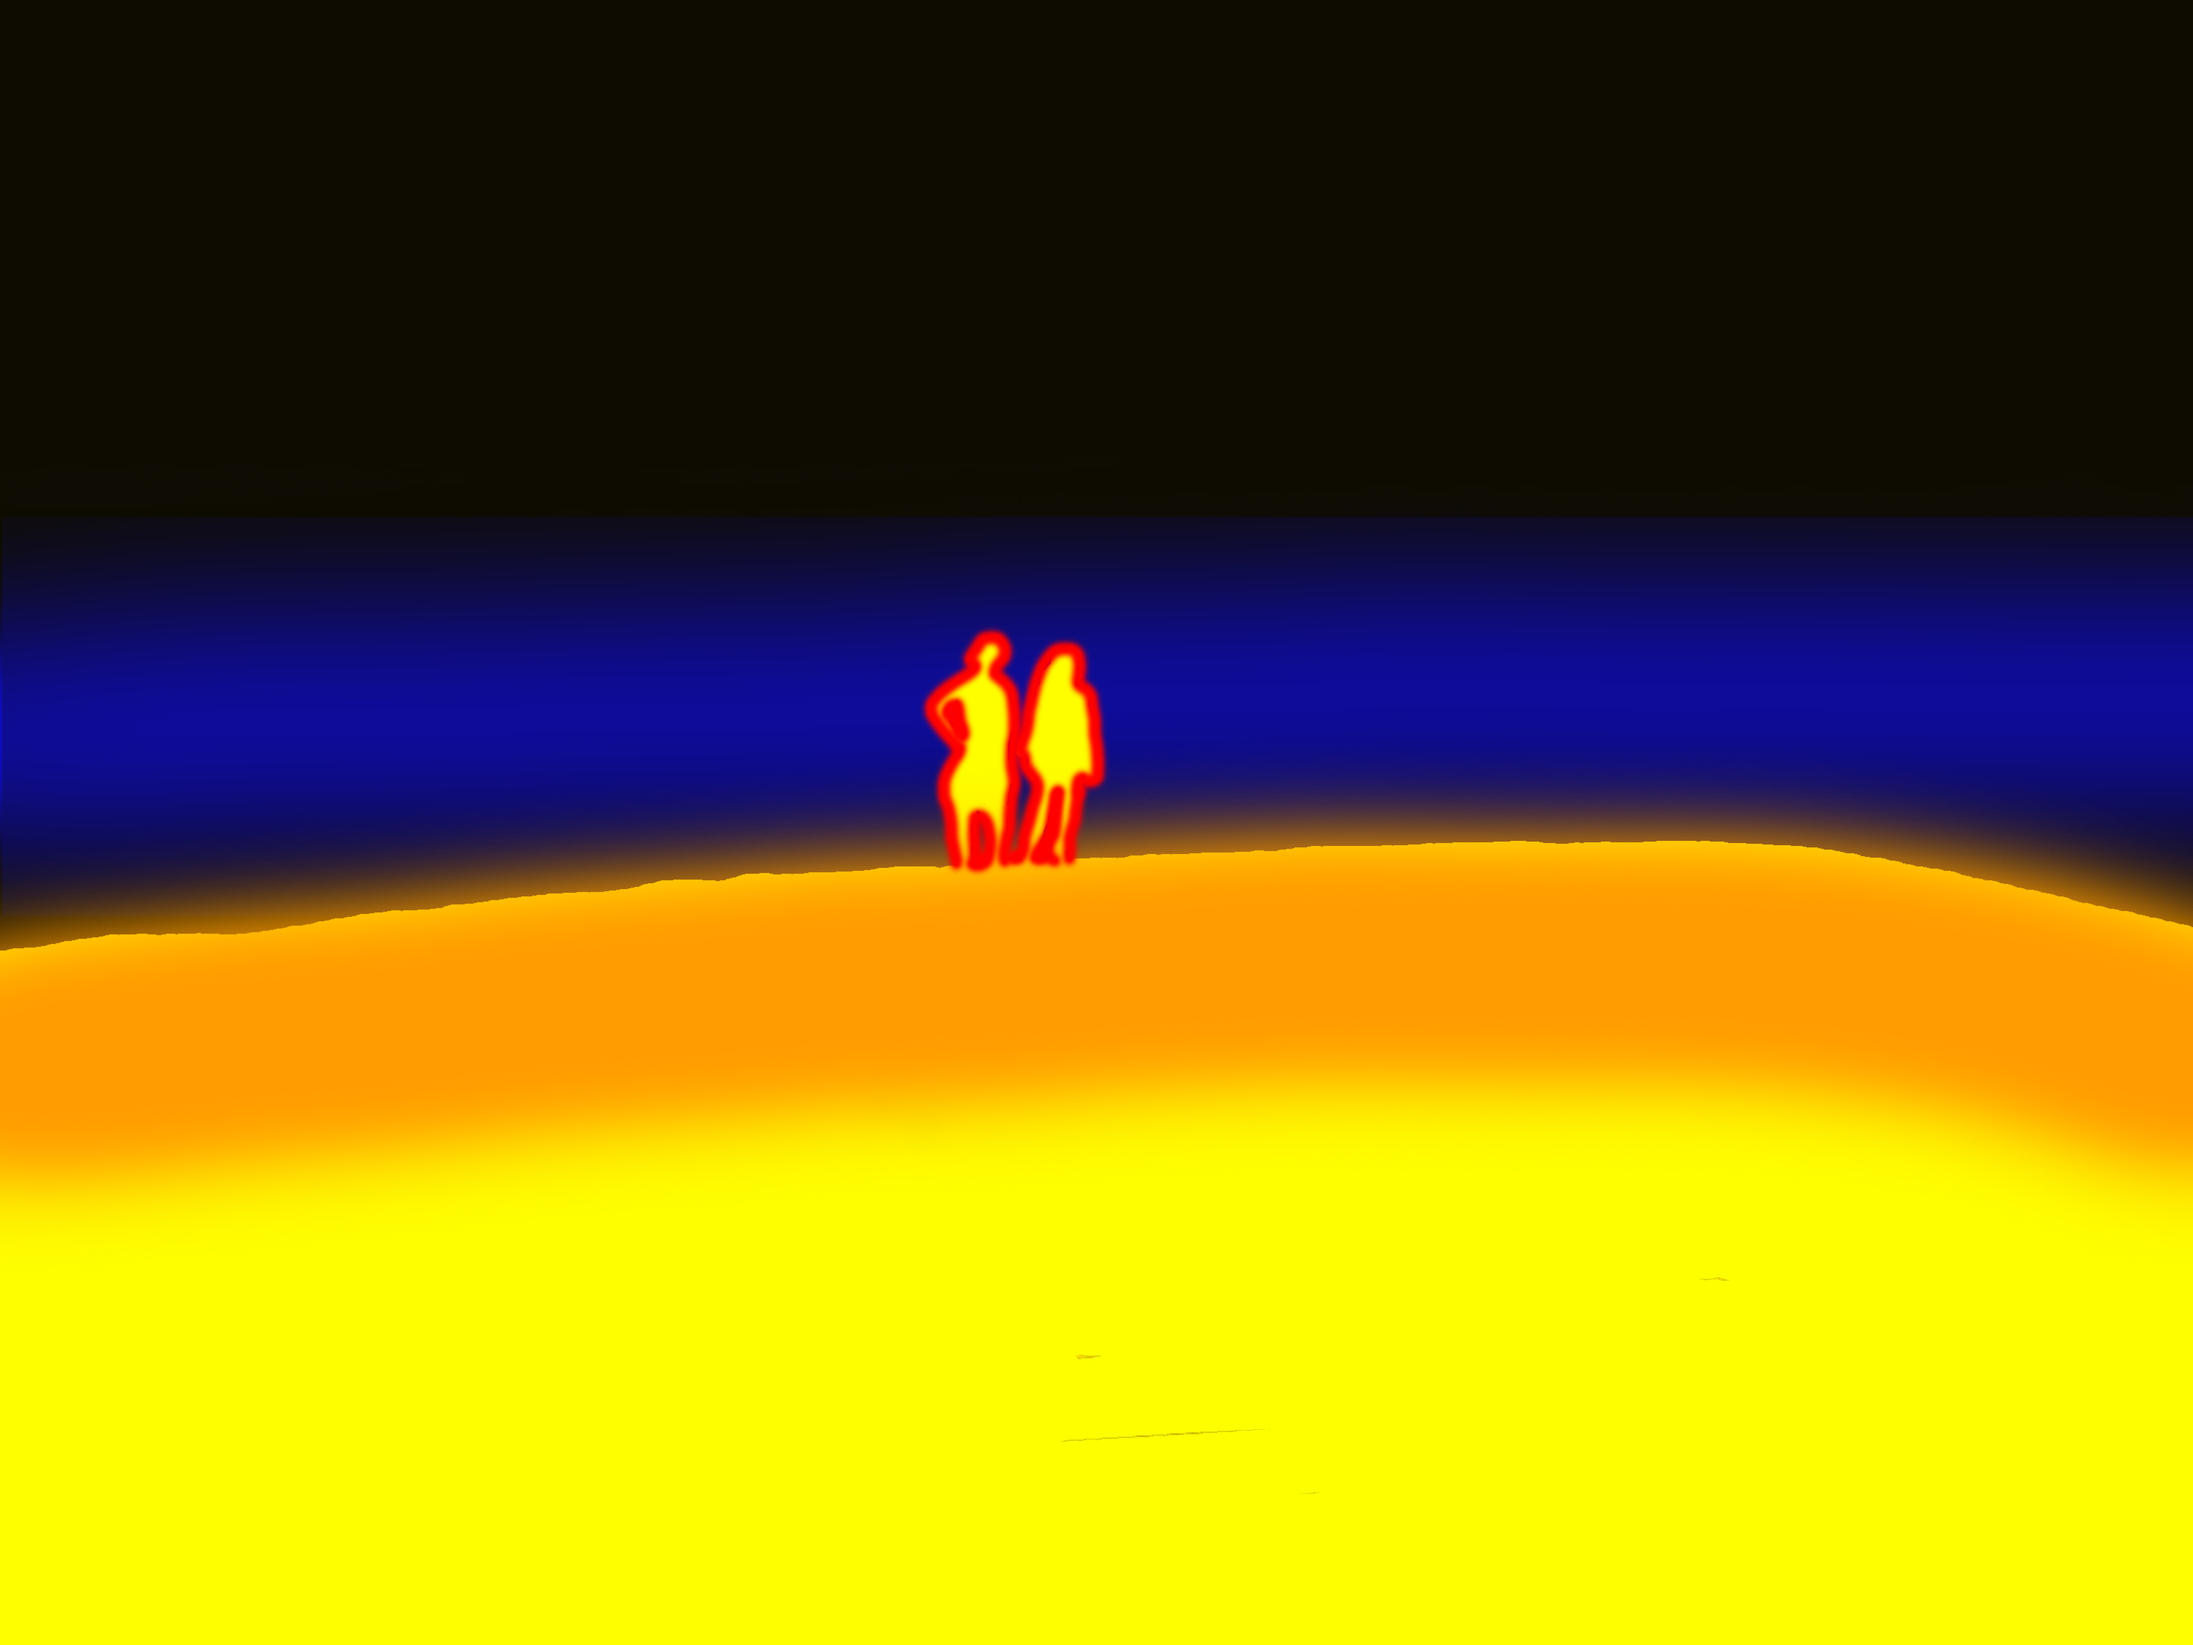
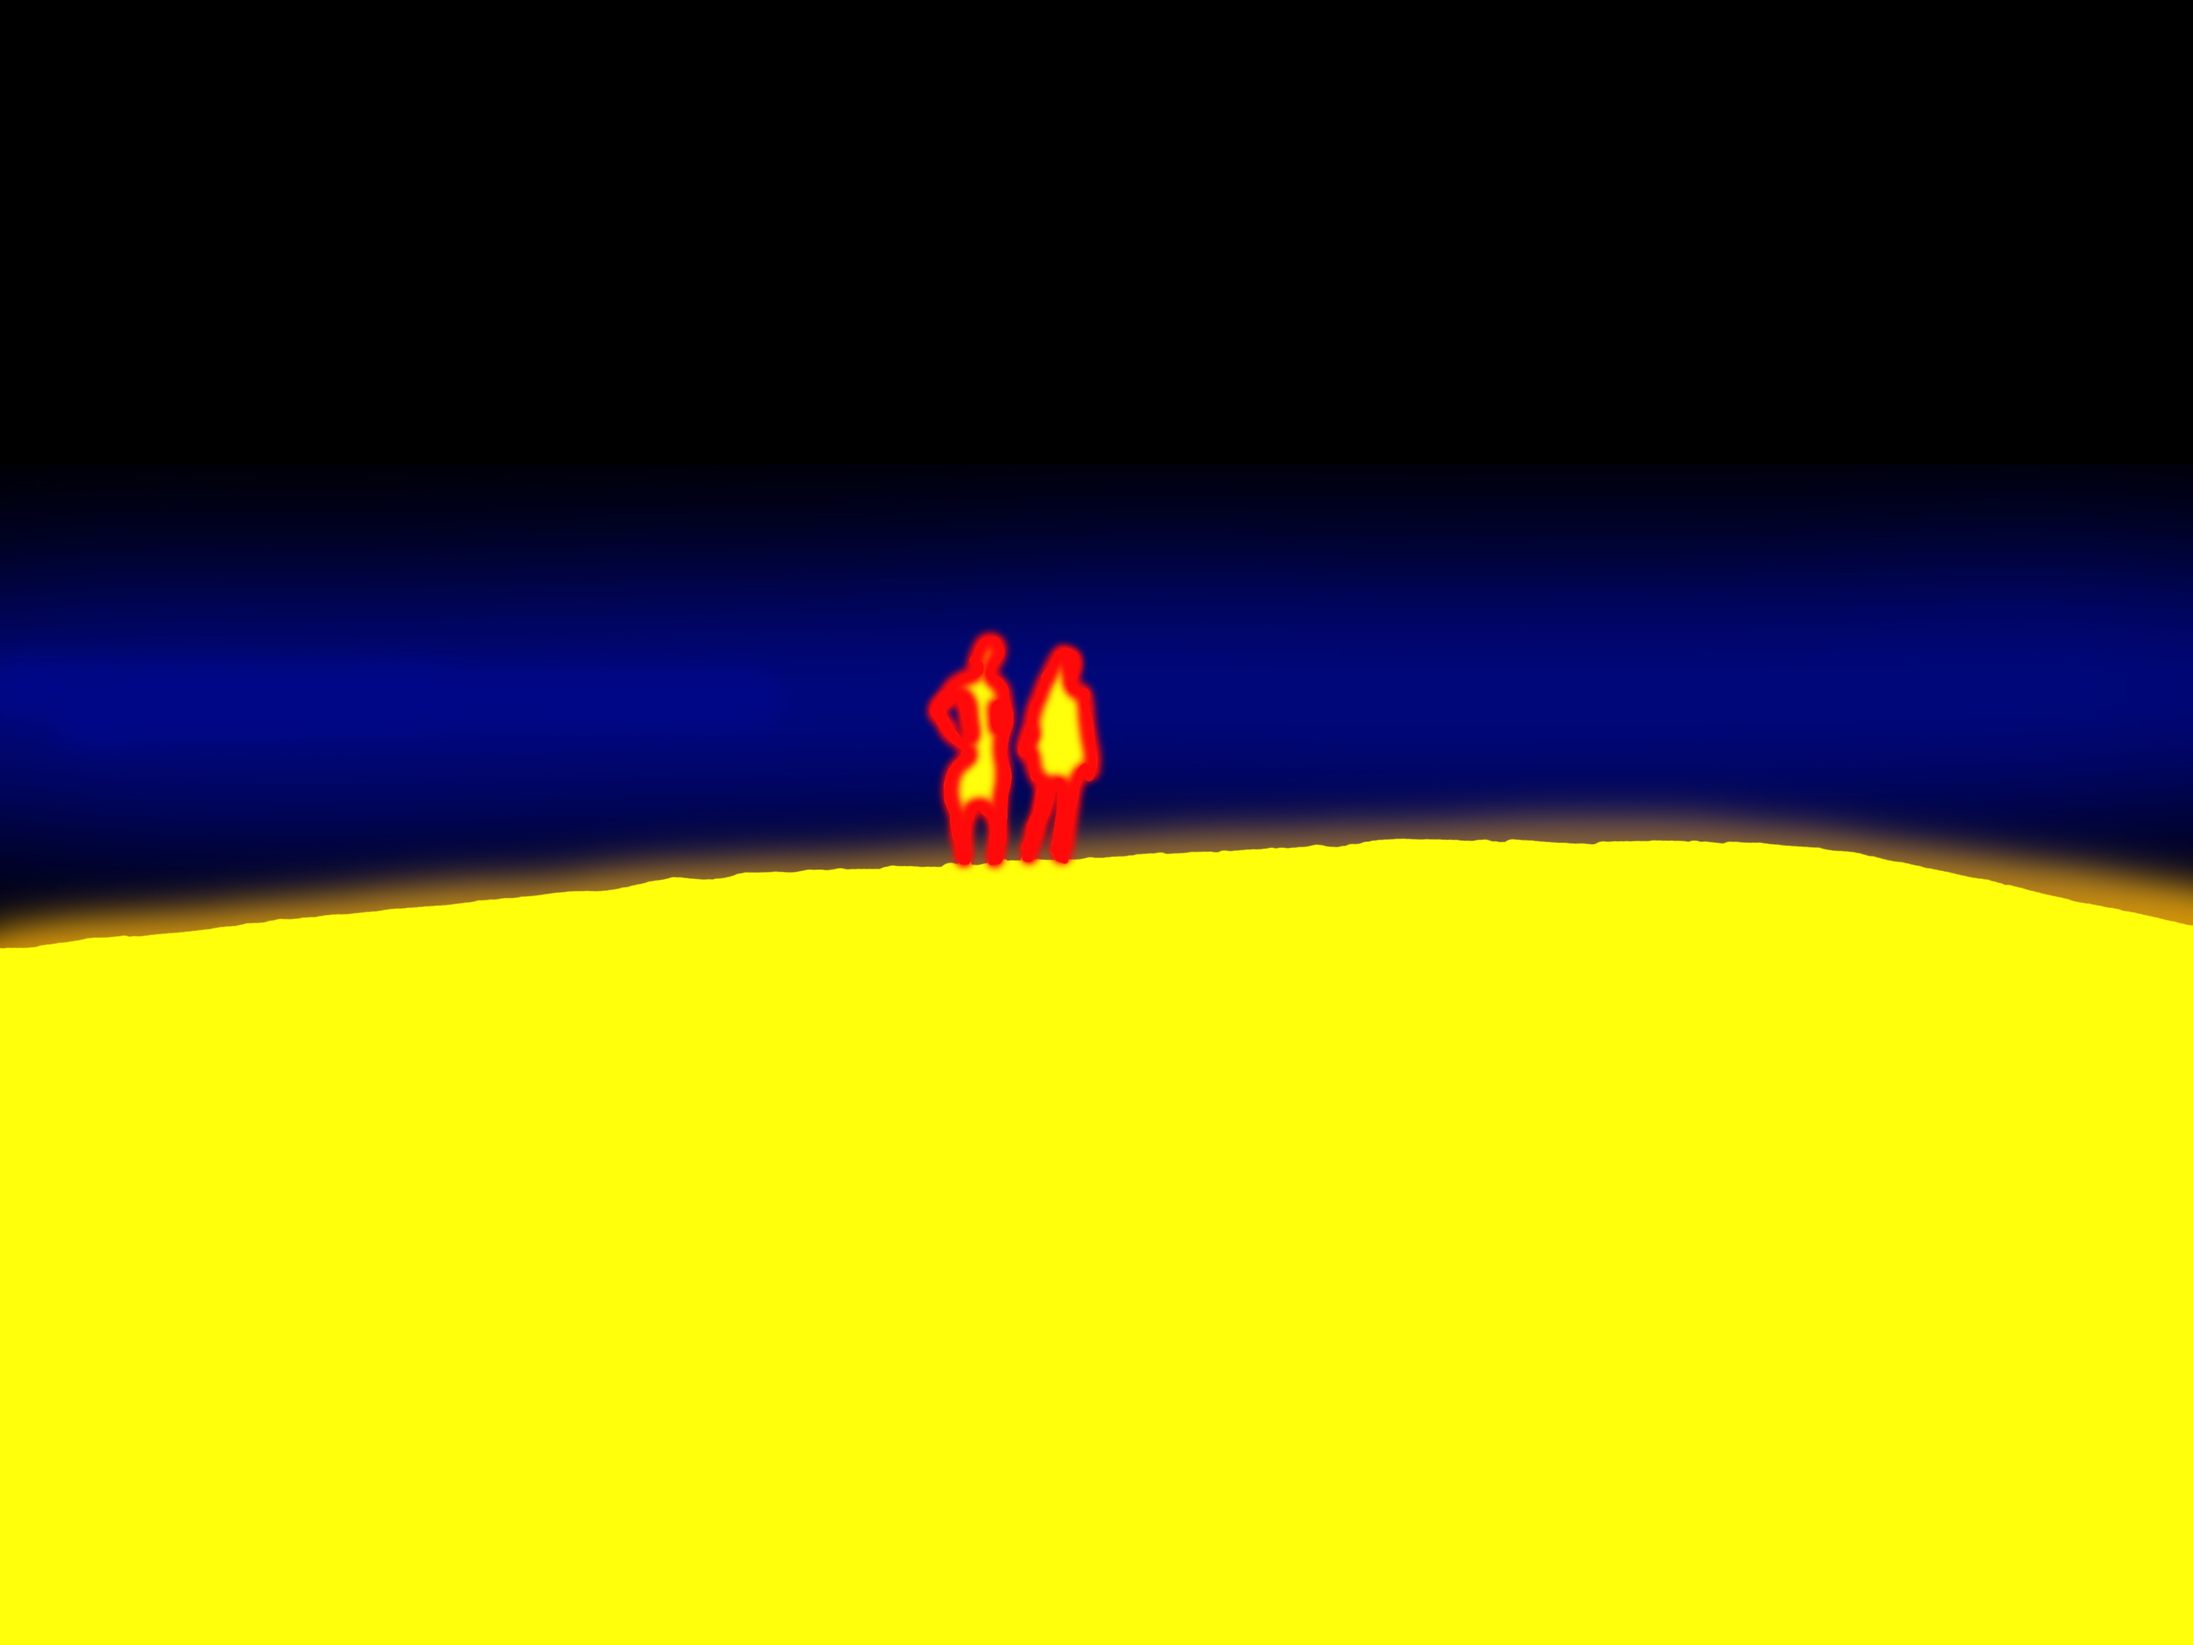
Improvements in desert animations

Changed region(s): [[0.0, 0.3733, 1.0, 0.7467], [0.31, 0.28, 1.0, 0.3111]]

diff --git a/heat_distortion/index/desert.js b/heat_distortion/index/desert.js
@@ -114,15 +114,24 @@
 	
 	window.addEventListener('mousemove', function (event) {
 	  if (!isTouchDevice) {
-	    haze.gl.createUniform('2f', 'mouse', -curve(-1 + event.pageX / window.innerWidth * 2), -curve(-1 + event.pageY / window.innerHeight * 2));
+	    haze.gl.createUniform('2f', 'mouse', -curve(-1 + (event.pageX + 1.7*window.innerWidth) / window.innerWidth * 0.5), -curve(-1 + (event.pageY + 1.7*window.innerHeight) / window.innerHeight * 0.5));
 	  }
 	});
 	
 	window.addEventListener('devicemotion', function (event) {
-	  if (isTouchDevice) {
-	    haze.gl.createUniform('2f', 'mouse', curve(smoothX(-event.accelerationIncludingGravity.x / 10)) * 12, curve(smoothY(-event.accelerationIncludingGravity.y / 10)) * 3);
-	  }
-	});
+		if (isTouchDevice) {
+		  // Adjust the baseline for vertical orientation
+		  const adjustedX = -event.accelerationIncludingGravity.x / 10;
+		  const adjustedY = (-event.accelerationIncludingGravity.y + 9.8) / 10; // 9.8 accounts for gravity in vertical position
+	  
+		  haze.gl.createUniform(
+			'2f',
+			'mouse',
+			curve(smoothX(adjustedX)) * 12,
+			curve(smoothY(adjustedY)) * 3
+		  );
+		}
+	  });
 	
 	haze.gl.createUniform('1i', 'noiseSize', 256);
 	
@@ -18275,8 +18284,8 @@
 		vec2 intensity = vec2(2.0, 1.0) * pixel();
 	
 		vec2 waves = vec2(
-			wave(pos.y, 190.0, 0.4),
-			wave(pos.x, 100.0, 0.45)
+			wave(pos.y, 190.0, 0.35),
+			wave(pos.x, 100.0, 0.40)
 		);
 	
 		return pos + (waves * intensity * (masked ? mask : 1.0));

diff --git a/assets/map.css b/assets/map.css
@@ -160,6 +160,9 @@ nav.side-nav a.active::after{ width: 30px;}
     
     nav.side-nav a.active::after{ width: 40px;}
 
+    nav.side-nav.white a{ color: black; }
+    nav.side-nav.white a::after{ background-color: black; }
+
     #countries_cont .countries-bg{
         background-position: 40% top;
     }
